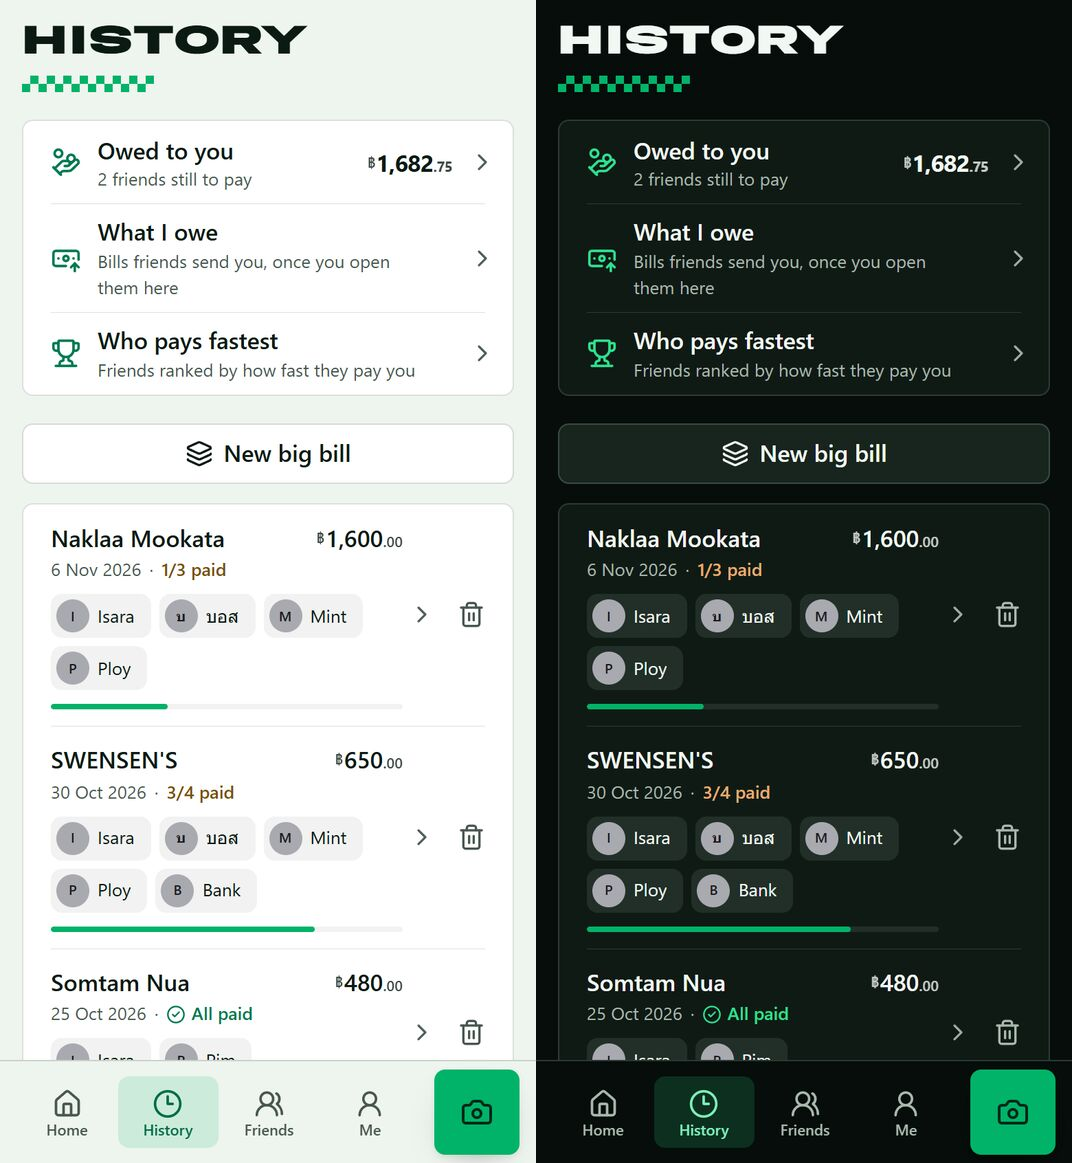
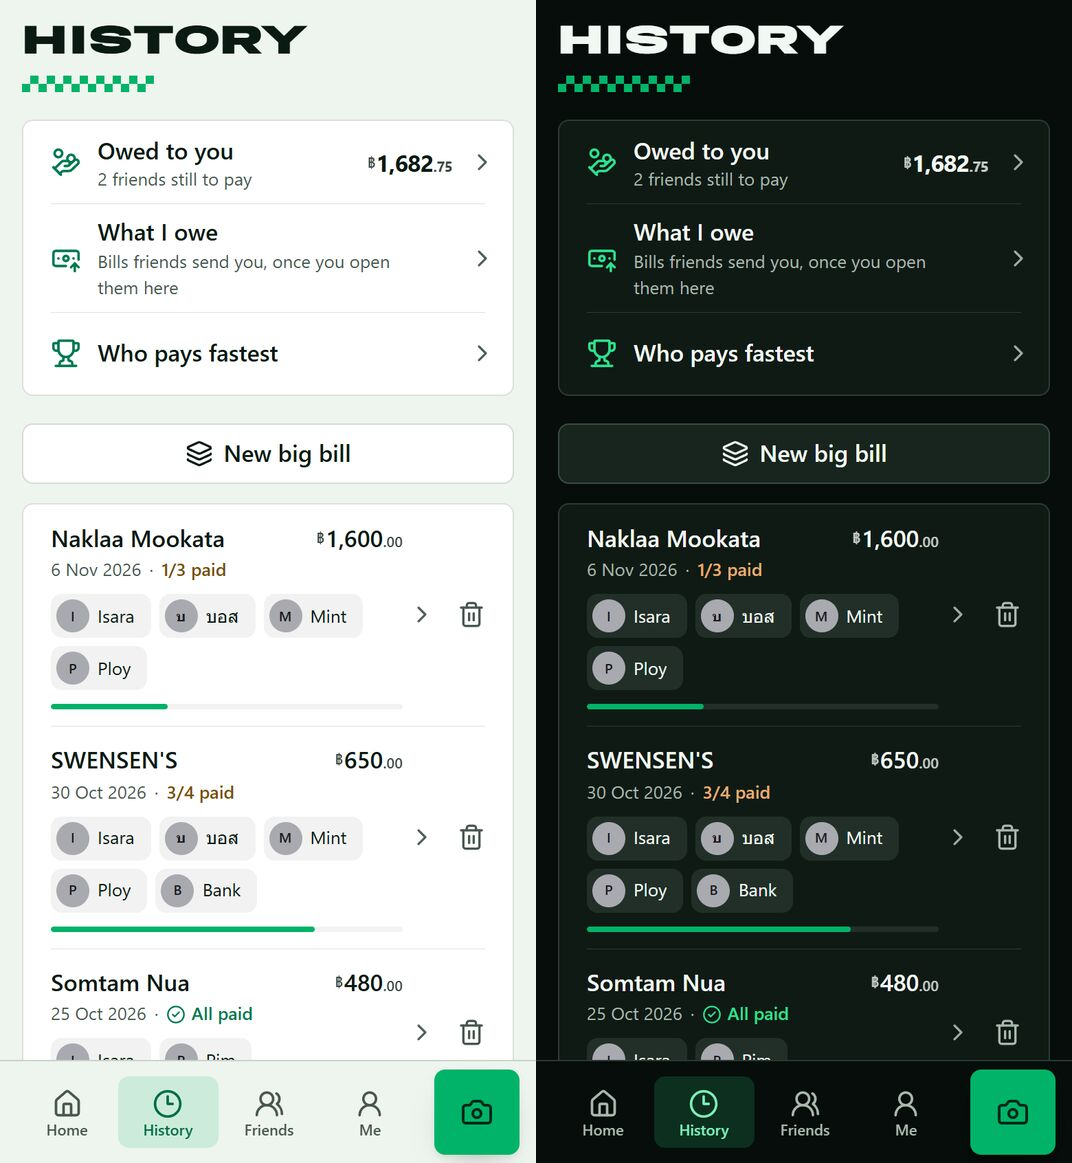
Who pays fastest: drop the explanation text
Removes the footnote under the ranking, the two paragraphs in the Hide sheet
and the line under every "Who pays fastest" link. README notes the organiser's
paid-time correction; History screenshot retaken.

Changed region(s): [[0.5849, 0.2786, 0.8927, 0.3405], [0.0924, 0.2786, 0.3694, 0.3405]]

diff --git a/src/components/FastestHide.tsx b/src/components/FastestHide.tsx
@@ -140,10 +140,6 @@ export function FastestHide({ id }: { id: string }) {
         confirmLabel={busy ? "Saving…" : "Save"}
         confirmDisabled={busy || people === null}
       >
-        <p className="mb-3 px-1 text-[15px] text-ink-2">
-          Tick friends to hide them, or bills to stop counting them (say, one you ticked long after it was paid), or set when a bill really started. It changes the ranking, the podium and
-          its link preview, for everyone who opens it.
-        </p>
         {people && people.length > 0 && <h3 className="section-label mb-2 px-1">Friends</h3>}
         {error && <Callout tone="error">{error}</Callout>}
         {people === null && !error && <p className="px-1 text-ink-2">Loading…</p>}
@@ -238,10 +234,6 @@ export function FastestHide({ id }: { id: string }) {
                 );
               })}
             </ul>
-            <p className="mt-2 px-1 text-[13px] text-ink-2">
-              Counts from: when the bill was shared, in Thailand time. Bills shared before 10 Nov 2026 never had that saved: use the time on
-              their receipt, or set the real time if you know it (say, from a slip).
-            </p>
           </>
         )}
       </Sheet>

diff --git a/src/components/FastestLink.tsx b/src/components/FastestLink.tsx
@@ -3,14 +3,11 @@ import Link from "next/link";
 import { ICON } from "./ui";
 
 /** A row that opens "Who pays fastest" (the organiser's, or a shared list's). */
-export function FastestLink({ href = "/fastest", detail = "Friends ranked by how fast they pay you" }: { href?: string; detail?: string }) {
+export function FastestLink({ href = "/fastest" }: { href?: string }) {
   return (
     <Link href={href} className="flex min-h-[60px] items-center gap-3 py-2 pr-3 pl-5">
       <Trophy size={22} {...ICON} className="shrink-0 text-accent" aria-hidden />
-      <span className="min-w-0 flex-1">
-        <span className="block font-semibold">Who pays fastest</span>
-        <span className="block text-[13px] text-ink-2">{detail}</span>
-      </span>
+      <span className="min-w-0 flex-1 font-semibold">Who pays fastest</span>
       <ChevronRight size={20} {...ICON} className="shrink-0 text-ink-3" aria-hidden />
     </Link>
   );

diff --git a/src/app/o/[id]/fastest/page.tsx b/src/app/o/[id]/fastest/page.tsx
@@ -89,11 +89,6 @@ export default async function FastestPage({ params }: PageProps<"/o/[id]/fastest
           ))}
         </ol>
       )}
-
-      <p className="px-5 text-[13px] text-ink-2">
-        Time from when a bill was shared to the tick (for bills shared before 10 Nov 2026, from when it was started, or the start of its date if later). A bill not paid yet counts the time so far, so it moves them down.
-        Times are in Thailand time.
-      </p>
     </main>
   );
 }

diff --git a/src/app/o/[id]/page.tsx b/src/app/o/[id]/page.tsx
@@ -76,7 +76,7 @@ export default async function BoardPage({ params }: PageProps<"/o/[id]">) {
 
       <ul className="card rows overflow-hidden">
         <li>
-          <FastestLink href={`/o/${id}/fastest`} detail={`Everyone ranked by how fast they pay ${b.organiser.name}`} />
+          <FastestLink href={`/o/${id}/fastest`} />
         </li>
       </ul>
 

diff --git a/README.md b/README.md
@@ -116,7 +116,7 @@ All of them are listed in [`.env.example`](.env.example).
 - **Maths** — `src/lib/calc.ts`, pure and integer-only (satang). Items → discount → service charge on the discounted subtotal → VAT on (subtotal + service). Shares use largest-remainder allocation, so everyone's amounts always add up exactly (in new splits the leftover units go to the friends, never the organiser); uneven shares are weights on the same allocation. Rounding, paid-upfront and the organiser's share are applied on top, never letting the organiser lose money.
 - **Scanning** — the phone fixes the photo's rotation and sends a ~2048 px JPEG to `POST /api/scan`. `src/lib/server/gemini.ts` races a chain of Gemini models (best first: 3.8 Flash, 3.7 Flash, 3.6 Flash, 3.5 Flash, 3.5 Flash-Lite, 3.1 Flash-Lite): the best one and Flash-Lite start together, others join when one fails or is slow. Flash-Lite's answer is only taken straight away if its numbers add up. A garbled answer or a refused photo counts as that model failing; if a model finds no items, a second one is asked, and two agreeing settles it. Busy, out-of-quota or timed-out models cool down (shared via Redis). Strict JSON schema, temperature 0, lowest thinking level. Results go through `src/lib/scanFilter.ts` and `applyScan`. See [`docs/scan-reliability.md`](docs/scan-reliability.md).
 - **Discount items** — `src/lib/discountMatch.ts`: a percentage leaves a fingerprint (10% of ฿599 is exactly ฿59.90), so it searches for the sets of items whose total gives exactly the printed discount, folds sets that only swap same-priced items, and ranks one kind of thing (all drinks or all food) and the organiser's items first.
-- **Pay speed** — each paid tick stores its time in Redis, and `payTimes` in `src/lib/owed.ts` measures each bill from `payFrom` (when it was shared: the server keeps that time; bills shared before 10 Nov 2026 use when their draft was started, or the start of their day in Thailand if later) to the tick, on the server from the organiser's bills (`/o/{id}/fastest`, preview `/api/og/f/{id}`); `/fastest` opens this phone's list there.
+- **Pay speed** — each paid tick stores its time in Redis, and `payTimes` in `src/lib/owed.ts` measures each bill from `payFrom` (when it was shared: the server keeps that time; bills shared before 10 Nov 2026 use when their draft was started, or the start of their day in Thailand if later) to the tick, on the server from the organiser's bills (`/o/{id}/fastest`, preview `/api/og/f/{id}`); `/fastest` opens this phone's list there. The organiser's phone can correct when someone paid (say, from a bank statement) with `PUT /api/boards/{id}/paid-times`, for people already ticked paid.
 - **Sharing** — `POST /api/splits` → `{ id, token }`; only a SHA-256 of the edit token is stored. Splits live 90 days after the last activity. `/api/splits/{id}/paid` records payments (full, part or none; organiser only). Shared links carry `?v=` so chat apps refresh their preview after an edit; preview images come from `/api/og/s|e/{id}`.
 - **Slips** — `POST /api/splits/{id}/slip` (and `/api/events/{id}/slip`): read with Gemini, checked by `src/lib/slip.ts`, each slip reference can be used once.
 - **What I owe** — the organiser's phone tells the server which splits it made (`POST /api/organiser/claim`, each proven with its edit token, under a random phone id); `GET /api/splits/{id}/others` returns that organiser's other splits where the same person still owes (only for someone in split `{id}`, matched by id or by the name that split gives them).
